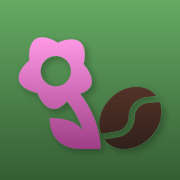
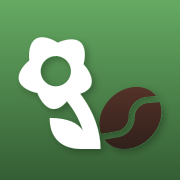
novo relatorio de pdf

Changed region(s): [[0.0833, 0.1944, 0.5833, 0.8333]]

diff --git a/app/page.tsx b/app/page.tsx
@@ -127,7 +127,7 @@ export default function Home() {
   const pageTitle: Record<Screen, string> = { lancamentos: "Lançamentos", recebimentos: "Recebimentos", pagamentos: "Pagamentos", saldo: "Saldo", graficos: "Gráficos" };
   return <main className="app-shell">
     <aside className="sidebar">
-      <div className="brand"><img src="/assets/logo.svg" alt="" /><span>Le Jardin</span></div><div className="business">CAFÉ & FLORES</div>
+      <div className="brand"><img src="/assets/logo_color.svg" alt="" /><span>Le Jardin</span></div><div className="business">CAFÉ & FLORES</div>
       <nav aria-label="Navegação principal">
         <NavButton active={screen === "lancamentos"} icon="＋" label="Lançamentos" onClick={() => setScreen("lancamentos")} />
         <NavButton active={screen === "recebimentos"} image="/assets/recebimento.svg" label="Recebimentos" onClick={() => setScreen("recebimentos")} />
@@ -181,11 +181,44 @@ function ExportButton({ entries, title }: { entries: Entry[]; title: string }) {
       XLSX.writeFile(book, `${fileName}.xlsx`);
     } else {
       const { jsPDF } = await import("jspdf");
-      const document = new jsPDF();
-      document.setFontSize(16); document.text("Le Jardin - Financeiro", 14, 18);
-      document.setFontSize(10); document.text(`Exportação: ${title}`, 14, 25);
-      let y = 35;
-      rows.forEach((row, index) => { if (y > 278) { document.addPage(); y = 18; } document.text(`${row.Data} | ${row.Descrição} | ${row.Método} | ${row.Destino} | ${money.format(row.Valor)}`, 14, y, { maxWidth: 180 }); y += 9; if (index === rows.length - 1) document.setFontSize(8); });
+      const document = new jsPDF({ unit: "mm", format: "a4" });
+      const titleLabel = title === "recebimentos" ? "Recebimentos" : title === "pagamentos" ? "Pagamentos" : "Movimentações";
+      const receipts = entries.filter((entry) => entry.type === "recebimento").reduce((sum, entry) => sum + entry.amount, 0);
+      const payments = entries.filter((entry) => entry.type === "pagamento").reduce((sum, entry) => sum + entry.amount, 0);
+      const sortedDates = entries.map((entry) => entry.date).sort();
+      const range = sortedDates.length ? `${formatDate(sortedDates[0])} a ${formatDate(sortedDates[sortedDates.length - 1])}` : "Sem lançamentos";
+      const left = 17; const right = 193; const columns = { date: 17, description: 42, method: 108, in: 140, out: 167 };
+      function reportHeader() {
+        document.setTextColor(39, 53, 44); document.setFont("helvetica", "bold"); document.setFontSize(15); document.text("LE JARDIN", left, 18);
+        document.setFont("helvetica", "normal"); document.setFontSize(7); document.setTextColor(112, 118, 110); document.text("CAFÉ & FLORES", left, 22.5);
+        document.setFont("helvetica", "bold"); document.setTextColor(39, 53, 44); document.setFontSize(12); document.text("RELATÓRIO FINANCEIRO", right, 18, { align: "right" });
+        document.setFont("helvetica", "normal"); document.setFontSize(8); document.setTextColor(112, 118, 110); document.text(`${titleLabel} | ${range}`, right, 22.5, { align: "right" });
+        document.setDrawColor(78, 96, 68); document.setLineWidth(.55); document.line(left, 27, right, 27);
+      }
+      function tableHeader(y: number) {
+        document.setFont("helvetica", "bold"); document.setFontSize(7); document.setTextColor(78, 96, 68);
+        document.text("DATA", columns.date, y); document.text("DESCRIÇÃO", columns.description, y); document.text("MÉTODO / DESTINO", columns.method, y); document.text("ENTRADAS", columns.in + 19, y, { align: "right" }); document.text("SAÍDAS", columns.out + 19, y, { align: "right" });
+        document.setDrawColor(80, 80, 80); document.setLineWidth(.25); document.line(left, y + 3, right, y + 3);
+      }
+      reportHeader();
+      document.setFillColor(242, 244, 238); document.roundedRect(left, 33, right - left, 24, 2, 2, "F");
+      document.setTextColor(112, 118, 110); document.setFont("helvetica", "bold"); document.setFontSize(7); document.text("ENTRADAS", left + 8, 40); document.text("SAÍDAS", left + 65, 40); document.text("SALDO DO PERÍODO", left + 122, 40);
+      document.setTextColor(39, 53, 44); document.setFont("helvetica", "normal"); document.setFontSize(13); document.text(money.format(receipts), left + 8, 49); document.text(money.format(payments), left + 65, 49); document.text(money.format(receipts - payments), left + 122, 49);
+      let y = 68; tableHeader(y); y += 10;
+      entries.forEach((entry) => {
+        const description = document.splitTextToSize(entry.description, 61) as string[];
+        const height = Math.max(8, description.length * 4.2 + 3);
+        if (y + height > 279) { document.addPage(); reportHeader(); y = 38; tableHeader(y); y += 10; }
+        document.setFont("helvetica", "normal"); document.setFontSize(8); document.setTextColor(45, 50, 45);
+        document.text(formatDate(entry.date), columns.date, y); document.text(description, columns.description, y); document.text(`${entry.method}\n${entry.destination}`, columns.method, y, { lineHeightFactor: 1.25 });
+        if (entry.type === "recebimento") { document.setTextColor(54, 104, 58); document.text(money.format(entry.amount), columns.in + 19, y, { align: "right" }); } else { document.setTextColor(139, 82, 60); document.text(money.format(entry.amount), columns.out + 19, y, { align: "right" }); }
+        document.setDrawColor(210, 210, 205); document.setLineWidth(.15); document.line(left, y + height - 2, right, y + height - 2); y += height;
+      });
+      if (y > 270) { document.addPage(); reportHeader(); y = 42; }
+      document.setDrawColor(39, 53, 44); document.setLineWidth(.55); document.line(left, y + 1, right, y + 1);
+      document.setFont("helvetica", "bold"); document.setFontSize(9); document.setTextColor(39, 53, 44); document.text("SALDO", columns.out + 19, y + 8, { align: "right" }); document.text(money.format(receipts - payments), right, y + 8, { align: "right" });
+      const pages = document.getNumberOfPages();
+      for (let page = 1; page <= pages; page += 1) { document.setPage(page); document.setFont("helvetica", "normal"); document.setFontSize(7); document.setTextColor(112, 118, 110); document.text(`Gerado em ${new Date().toLocaleDateString("pt-BR")} | Página ${page} de ${pages}`, right, 289, { align: "right" }); }
       document.save(`${fileName}.pdf`);
     }
     setOpen(false);

diff --git a/app/globals.css b/app/globals.css
@@ -17,3 +17,5 @@
   .table-header{display:none}.table-row{grid-template-columns:57px minmax(0,1fr) auto;column-gap:8px;row-gap:6px;padding:17px 14px}.table-row>span:first-child{grid-column:1;grid-row:1/span 3;align-self:start;padding-top:2px;font-size:11px;color:var(--muted)}.table-row>div{grid-column:2;grid-row:1;min-width:0}.table-row>div strong{overflow:hidden;text-overflow:ellipsis;white-space:nowrap}.table-row>span:nth-of-type(2){display:block;grid-column:2;grid-row:2;font-size:11px}.destination{display:block;grid-column:2;grid-row:3;font-size:10px}.table-row>strong{grid-column:3;grid-row:1;align-self:start;white-space:nowrap;font-size:12px}.edit{grid-column:3;grid-row:2/4;align-self:center}
   .chart-card{padding:18px 12px}.chart-card h2{padding-left:6px}.chart-legend{padding-left:6px;gap:8px}.line-chart text{font-size:9px}.modal{padding:26px 20px}.chart-period{width:100%}.export-options{grid-template-columns:1fr}
 }
+
+.brand img{filter:none}
